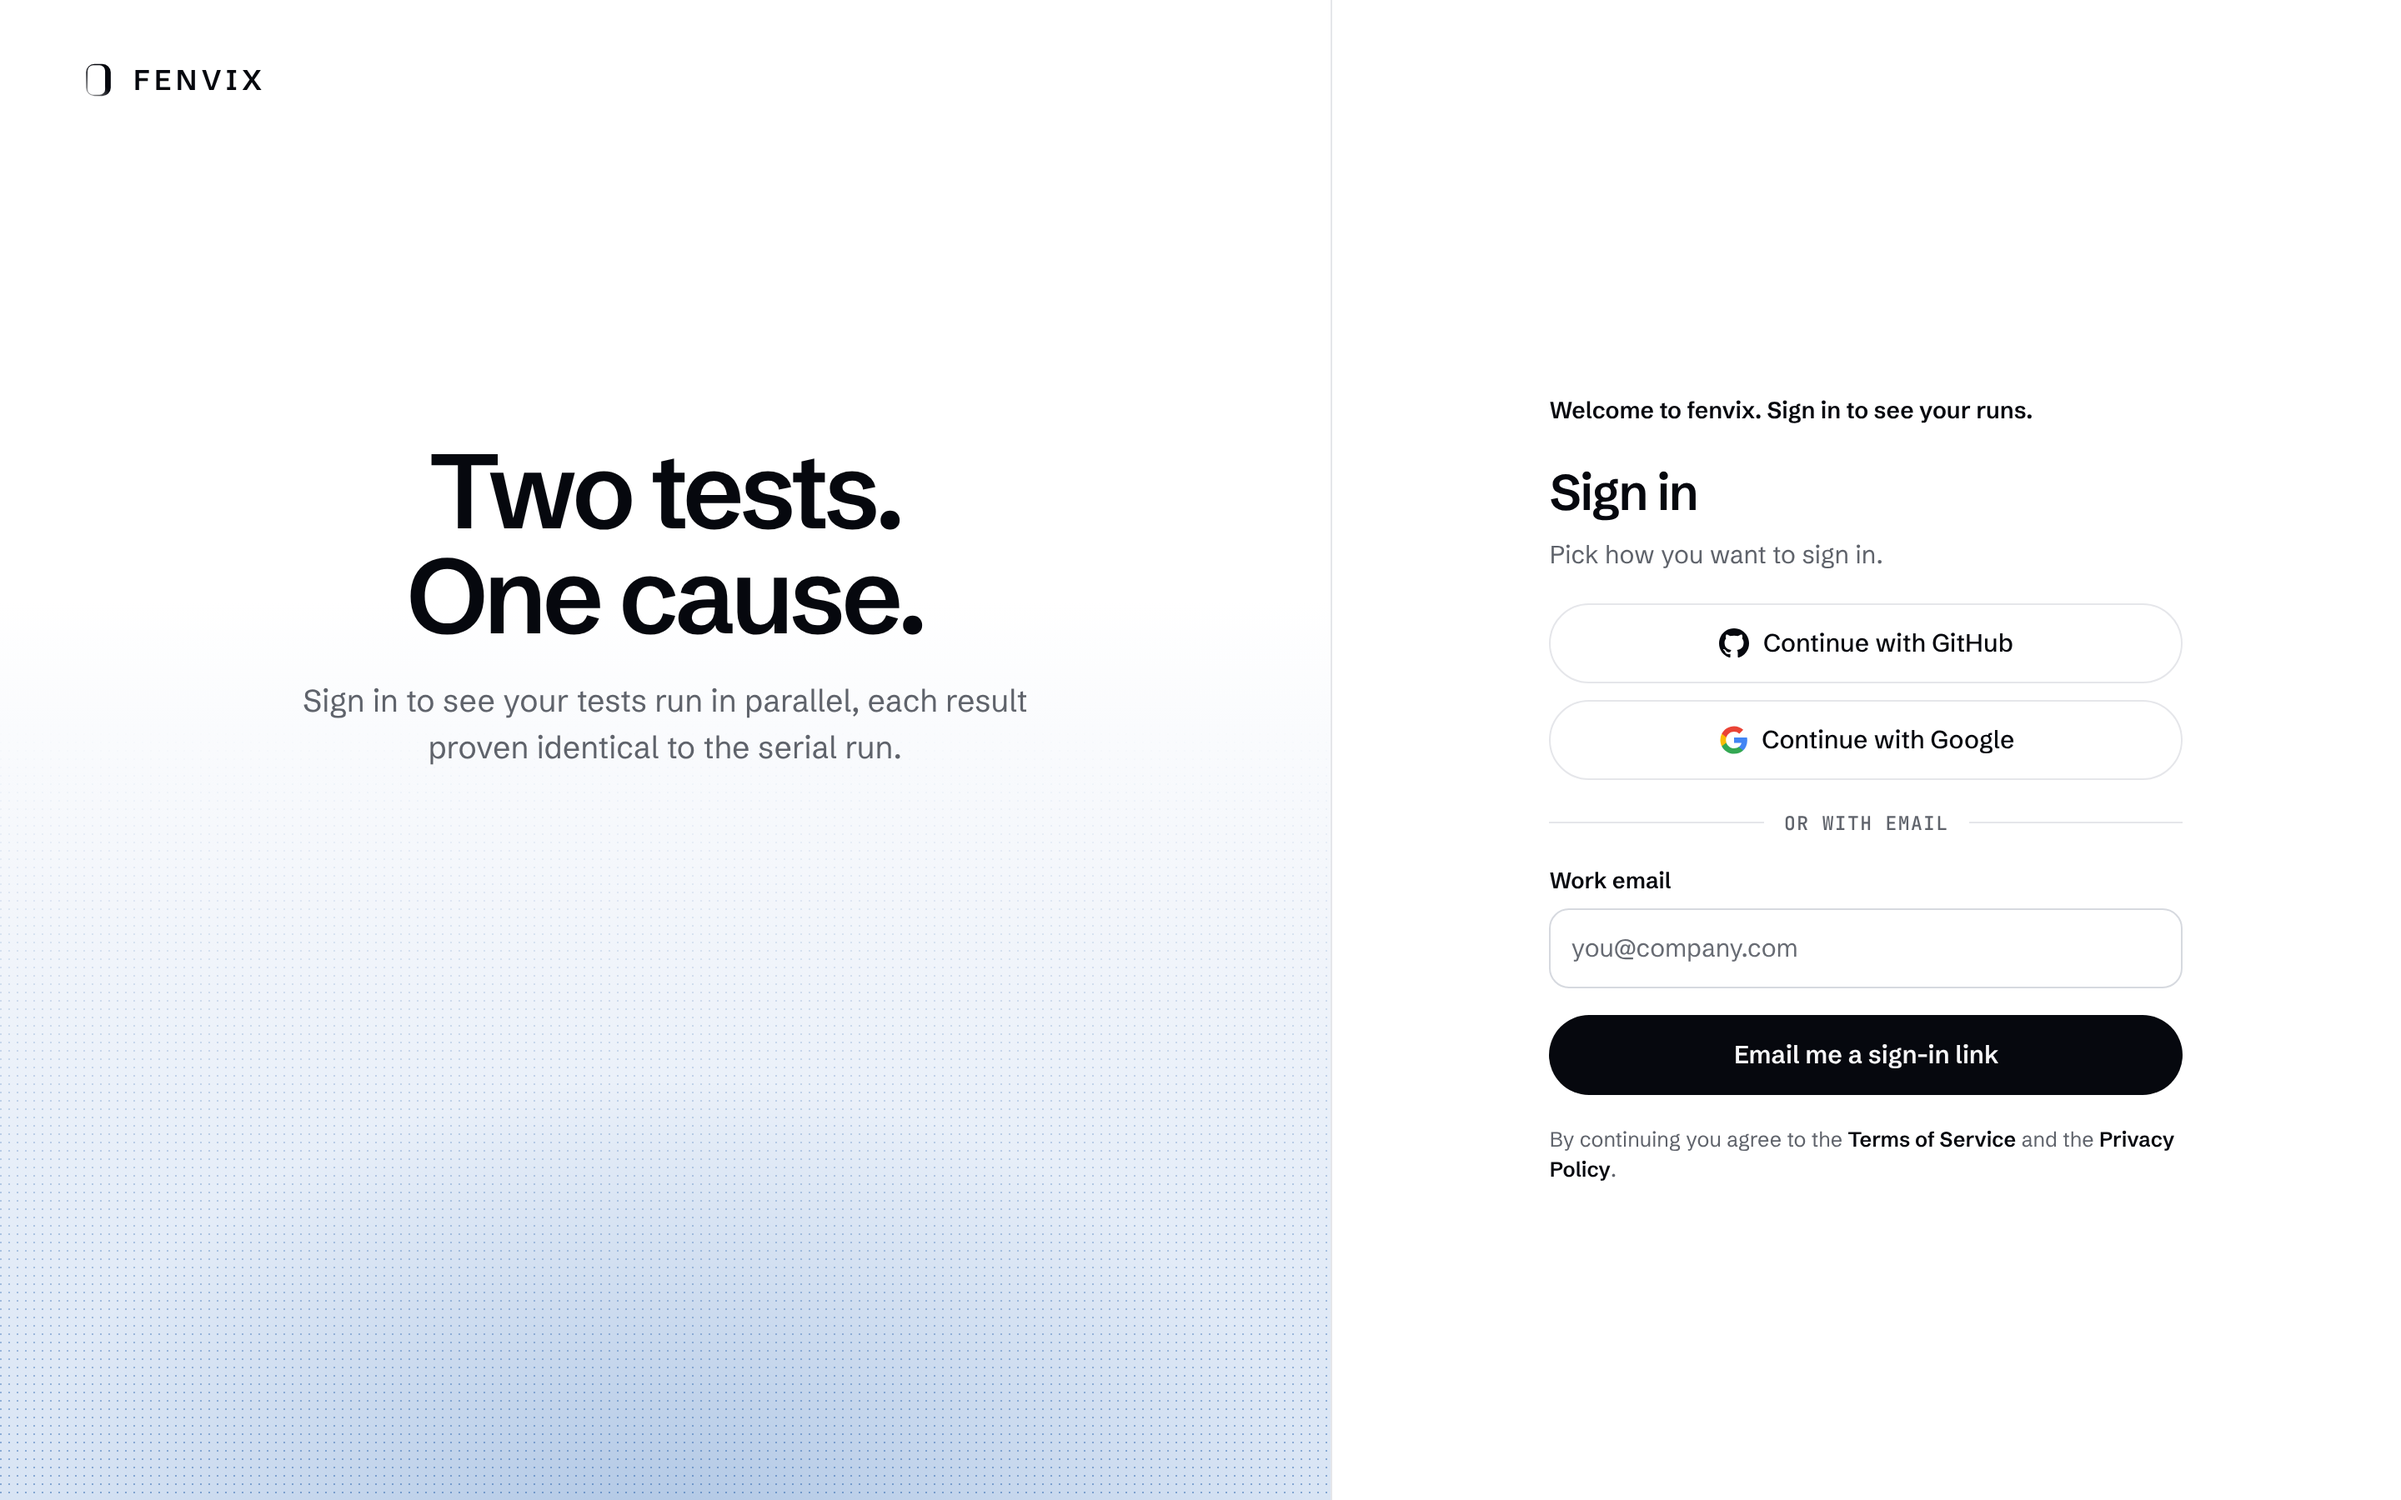
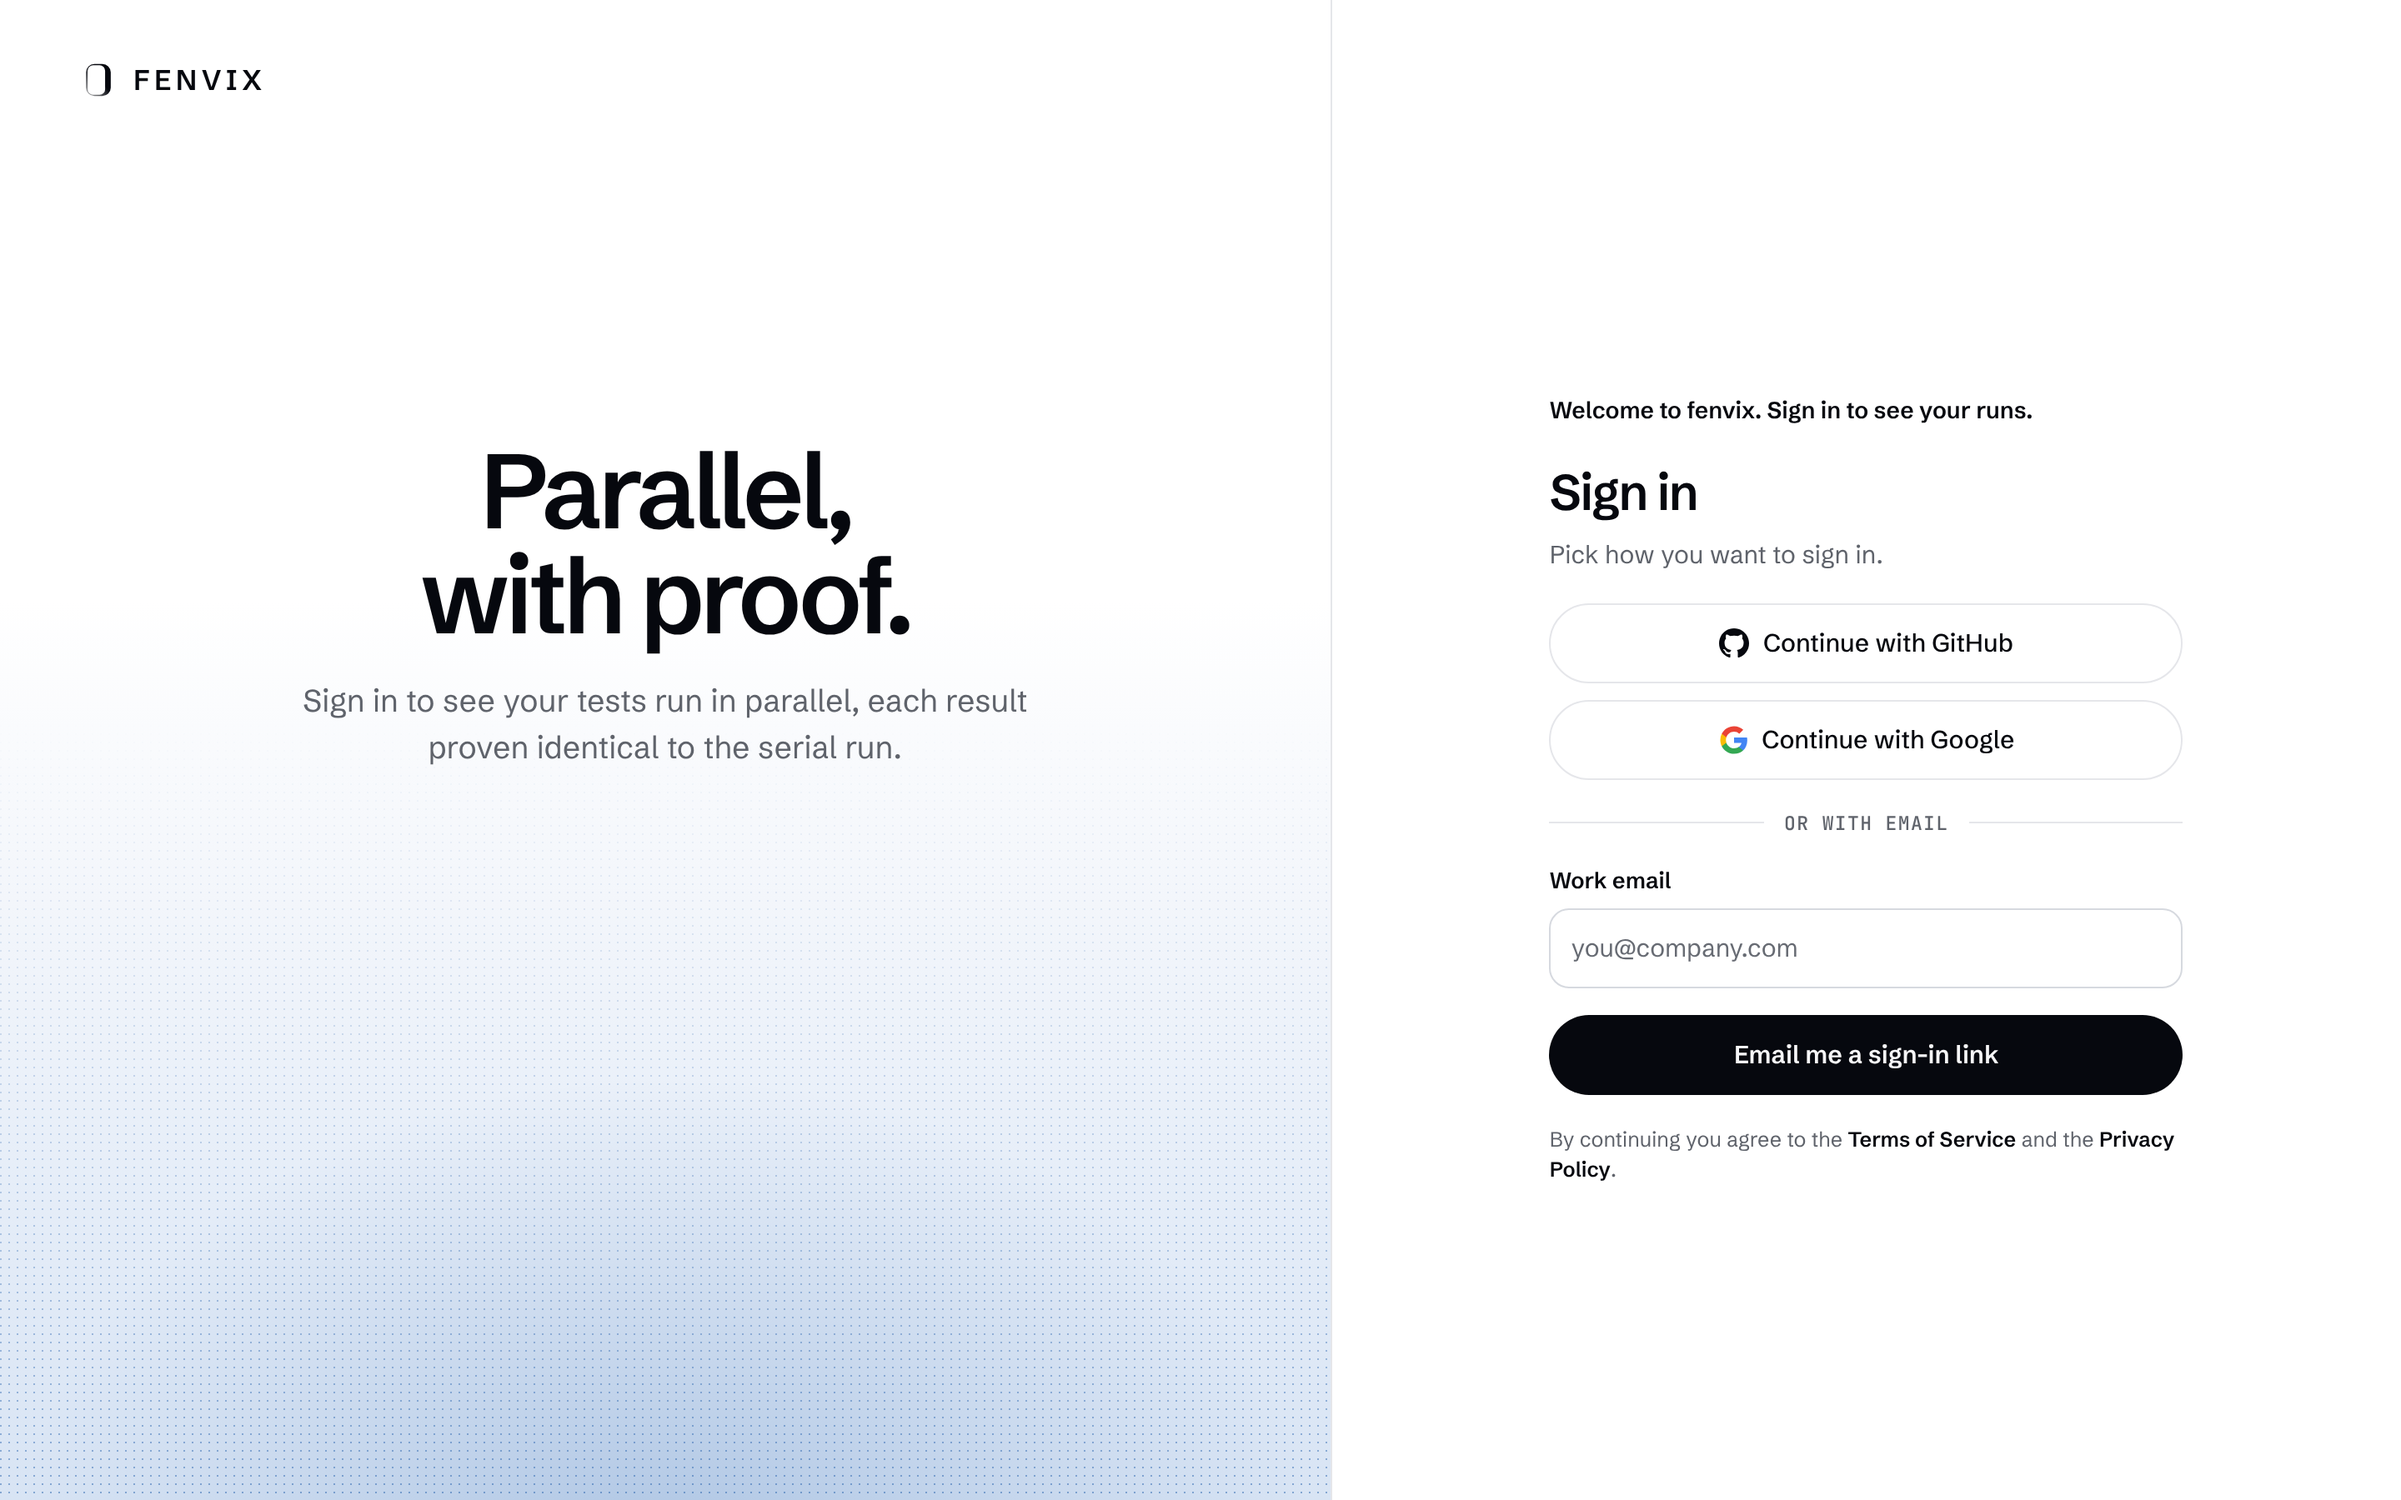
Console cleanup: welcome shots with the new title; report

Changed region(s): [[0.1562, 0.28, 0.375, 0.4356]]

diff --git a/console-cleanup/2026-11-27/REPORT.md b/console-cleanup/2026-11-27/REPORT.md
@@ -30,13 +30,13 @@ DONE
 
 ## Check 1: commands
 
-| Command | origin/main (worktree at 50d7fd9) | claude/console-cleanup (24a4744) |
+| Command | origin/main (worktree at 50d7fd9) | claude/console-cleanup (ab53d27) |
 |---|---|---|
 | `npm ci` | (node_modules copied from the branch's `npm ci`; same lockfile) | exit 0 |
 | `npm run typecheck` | exit 0 | exit 0 |
 | `npm run test:unit` | exit 0, 88 tests, 88 pass | exit 0, 91 tests, 91 pass |
 | `npm run build` | exit 0 | exit 0 |
-| `npm run check` | exit 0: checks 72 passed, organization 10, status colours 18, screenshots 170 pictures | exit 0: checks 72 passed, organization 10, status colours 18, cleanup 18 (after the added item), screenshots 170 pictures |
+| `npm run check` | exit 0: checks 72 passed, organization 10, status colours 18, screenshots 170 pictures | exit 0: checks 72 passed, organization 10, status colours 18, cleanup 18, screenshots 170 pictures |
 
 `npm run check` regenerates `docs/screenshots/`. That directory is not tracked by git (no change shown by `git status`), so it is not in this PR.
 
@@ -99,7 +99,7 @@ DONE
 
 ## Check 3: shots
 
-`shots/`: 28 pictures before (origin/main build, worktree at 50d7fd9) and 28 after (build of 6d54049). Mock backend, pre-installed Playwright, `deviceScaleFactor: 2`, light and dark, 1440x900 and 390x844. Pages: Connect, Usage, Settings, sign-in/welcome, loading screen, a coming-soon page (nightly), a toast. Command: `BASE_URL=… PREFIX=before|after node scripts/cleanup-shots.mjs`. Output: "28 pictures … console errors: 0" for both. The after shots predate the review fixes (24a4744), which change no layout: they add a failure note to the static loading screen and fix the `next` guard. The sign-in page stays light only, by design, so its light and dark shots are identical.
+`shots/`: 28 pictures before (origin/main build, worktree at 50d7fd9) and 28 after (taken again on the build of ab53d27: only the two 1440 px welcome pictures changed, for the new title; the other 26 came out byte-identical). Mock backend, pre-installed Playwright, `deviceScaleFactor: 2`, light and dark, 1440x900 and 390x844. Pages: Connect, Usage, Settings, sign-in/welcome, loading screen, a coming-soon page (nightly), a toast. Command: `BASE_URL=… PREFIX=before|after node scripts/cleanup-shots.mjs`. Output: "28 pictures … console errors: 0" for both. The sign-in page stays light only, by design, so its light and dark shots are identical.
 
 ## Check 4: files
 
